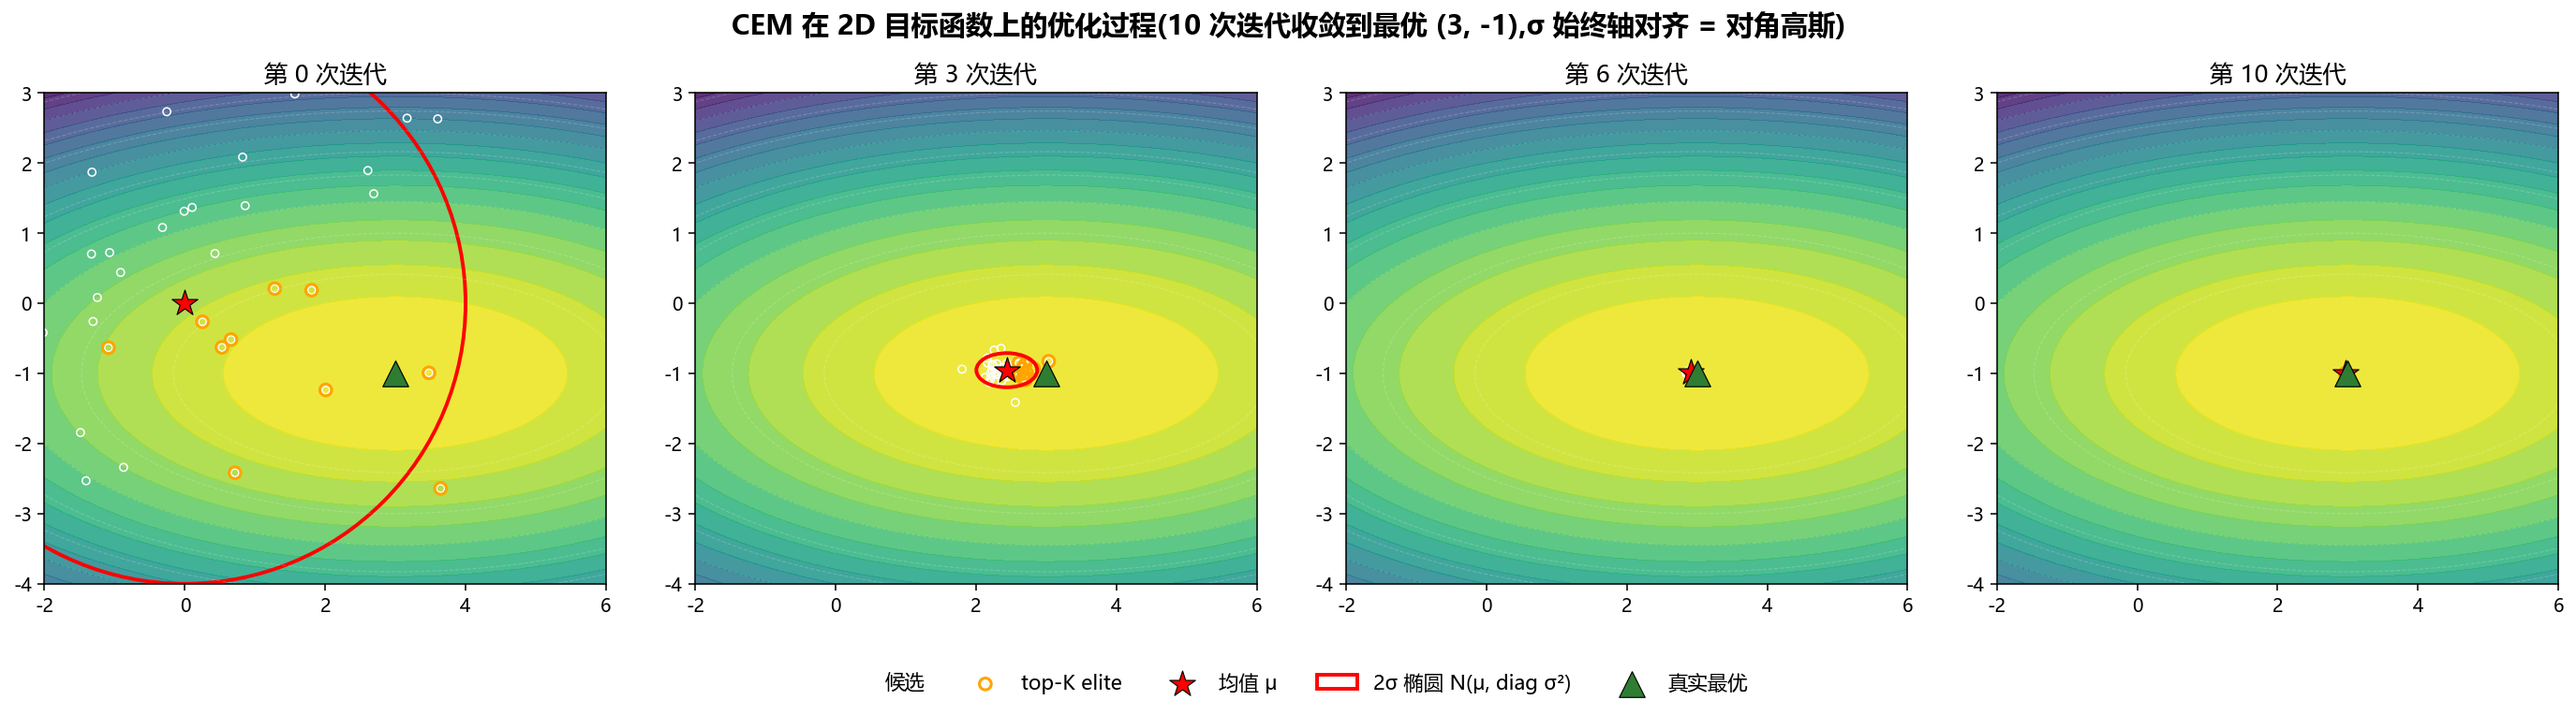
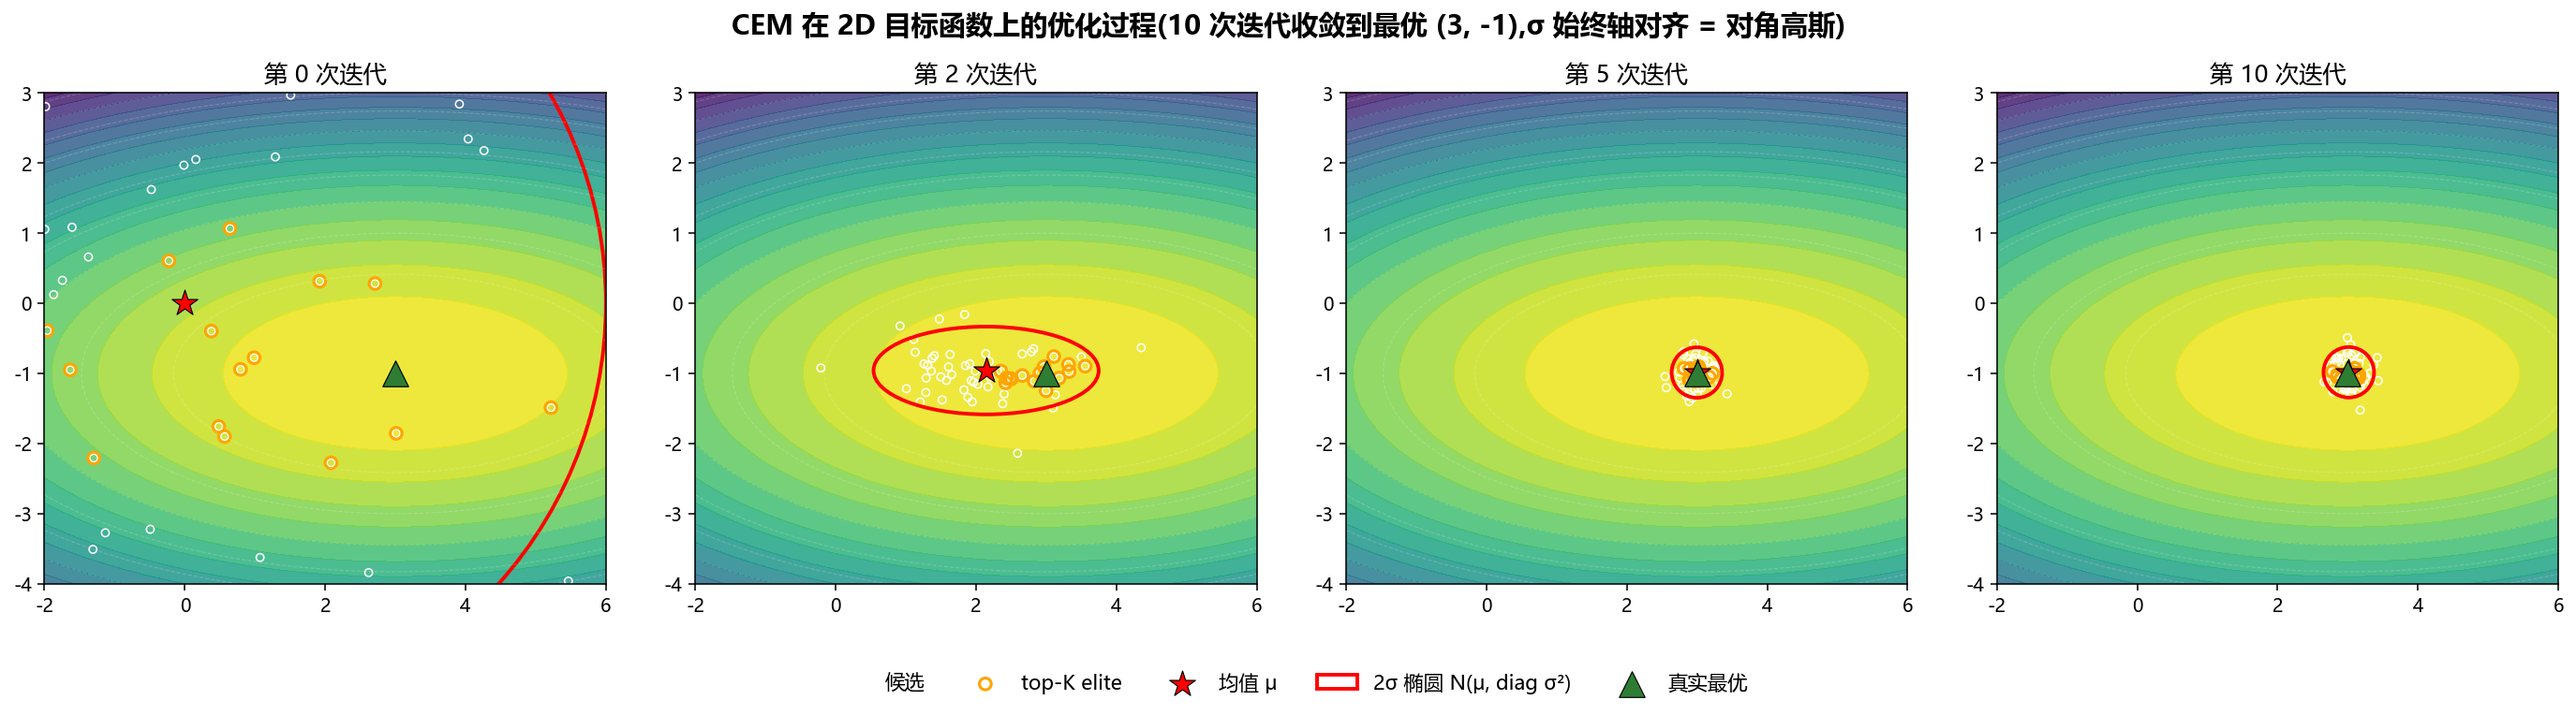
docs: fix CEM evolution figure (sigma collapse), use unicode in HTML captions
Two visual bugs fixed:
1. Evolution figure: with the previous sigma+update parameters the
   elite std collapsed by iter 3, so only the first panel showed
   anything meaningful. Bump initial sigma to 3.0, broaden J/K ratio
   (60/15 instead of 40/10), add a min-sigma floor of 0.18 so all
   four shown iterations (0, 2, 5, 10) have visible candidates and
   ellipses. The iter-2 panel now clearly shows the diag-sigma
   horizontal stretch (key visual signature of 'diagonal Gaussian').
2. Captions: LaTeX \$...\$ doesn't render inside <p>/<i> HTML blocks
   in most markdown viewers. Replace with unicode (𝒩, μ, σ², aₜ,
   superscripts) so the captions read correctly.

diff --git a/asset/cem/gen_cem_figs.py b/asset/cem/gen_cem_figs.py
@@ -61,10 +61,11 @@ def _draw_contours(ax):
 
 def run_cem_history(
     mu0=np.array([0.0, 0.0]),
-    sigma0=np.array([2.0, 2.0]),
-    J=40,
-    K=10,
+    sigma0=np.array([3.0, 3.0]),
+    J=60,
+    K=15,
     iters=10,
+    min_sigma=0.18,
     seed=0,
 ):
     rng = np.random.default_rng(seed)
@@ -77,15 +78,16 @@ def run_cem_history(
         elite_idx = np.argsort(scores)[-K:]
         elites = cand[elite_idx]
         history.append((mu.copy(), sigma.copy(), cand.copy(), elites.copy()))
-        # CEM update: elementwise mean and std (NO covariance).
+        # CEM update: elementwise mean and std (NO covariance). Floor sigma so
+        # candidates stay visually distinguishable across the shown iterations.
         mu = elites.mean(axis=0)
-        sigma = elites.std(axis=0) + 1e-6
+        sigma = np.maximum(elites.std(axis=0), min_sigma)
     return history
 
 
 def figure_generations_evolution(out_path: str):
     history = run_cem_history()
-    to_show = [0, 3, 6, 10]
+    to_show = [0, 2, 5, 10]
     fig, axes = plt.subplots(1, 4, figsize=(20, 4.6))
     title = "CEM 在 2D 目标函数上的优化过程(10 次迭代收敛到最优 (3, -1),σ 始终轴对齐 = 对角高斯)"
     fig.suptitle(title, fontsize=15, fontweight="bold", y=1.02)

diff --git a/World-Model-Study-Notes.md b/World-Model-Study-Notes.md
@@ -2254,12 +2254,12 @@ CEM (Cross-Entropy Method) = **iterative search in the action-sequence space via
 
 <p align="center">
   <img src="asset/cem/03_4step_loop.png" width="950"/><br/>
-  <i>The 4-step loop CEM repeats I times per single decision: ① sample J candidate action sequences from $\mathcal{N}(\mu, \mathrm{diag}\,\sigma^2)$ → ② roll out each in latent space with the RSSM and accumulate predicted reward → ③ pick top-K elites → ④ update the distribution with elementwise mean/std of the elites. After I iterations, $\mu[0]$ is taken as this time step's $a_t$; the next time step replans from scratch.</i>
+  <i>The 4-step loop CEM repeats I times per single decision: ① sample J candidate action sequences from 𝒩(μ, diag σ²) → ② roll out each in latent space with the RSSM and accumulate predicted reward → ③ pick top-K elites → ④ update the distribution with elementwise mean/std of the elites. After I iterations, μ[0] is taken as this time step's aₜ; the next time step replans from scratch.</i>
 </p>
 
 <p align="center">
   <img src="asset/cem/02_generations_evolution.png" width="950"/><br/>
-  <i>CEM optimisation on the 2D objective $f(x,y) = -((x-3)^2 + 5(y+1)^2)$. Green triangle is the true optimum (3, −1), red star is the current mean μ, **the red ellipse is the 2σ contour of $\mathcal{N}(\mu, \mathrm{diag}\,\sigma^2)$** (always axis-aligned — that is the visual signature of "diagonal Gaussian"); white dots are J candidates, orange circles are top-K elites. Converges to the optimum in 10 iterations.</i>
+  <i>CEM optimisation on the 2D objective f(x, y) = −((x−3)² + 5(y+1)²). Green triangle is the true optimum (3, −1), red star is the current mean μ, <b>the red ellipse is the 2σ contour of 𝒩(μ, diag σ²)</b> (always axis-aligned — that is the visual signature of "diagonal Gaussian"); white dots are J candidates, orange circles are top-K elites. Converges to the optimum in 10 iterations.</i>
 </p>
 
 > 🆚 **Compare with §🚀 World Models' CMA-ES**: same feedback-search framework (sample → elites → update), but **CMA-ES learns a full covariance matrix Σ**, so the ellipse can **rotate** to align with the objective's anisotropy (see the [CMA-ES evolution figure](#part-1-what-is-cma-es--three-sentence-explanation), where the ellipse is already tilted by generation 3 or 8); **CEM only learns a per-dimension σ** (diagonal Gaussian, ellipse always axis-aligned). **CEM is simpler / cheaper** (no $\mathcal{O}(d^2)$ covariance update) but less efficient when dimensions are strongly correlated. PlaNet picks CEM not because it's better, but because **it has to run from scratch at every time step and therefore must be cheap** (I=10 × J=1000 × H=12 = 120k transition forwards per decision); CEM's "diagonal assumption + elementwise update" minimises per-iteration cost.
